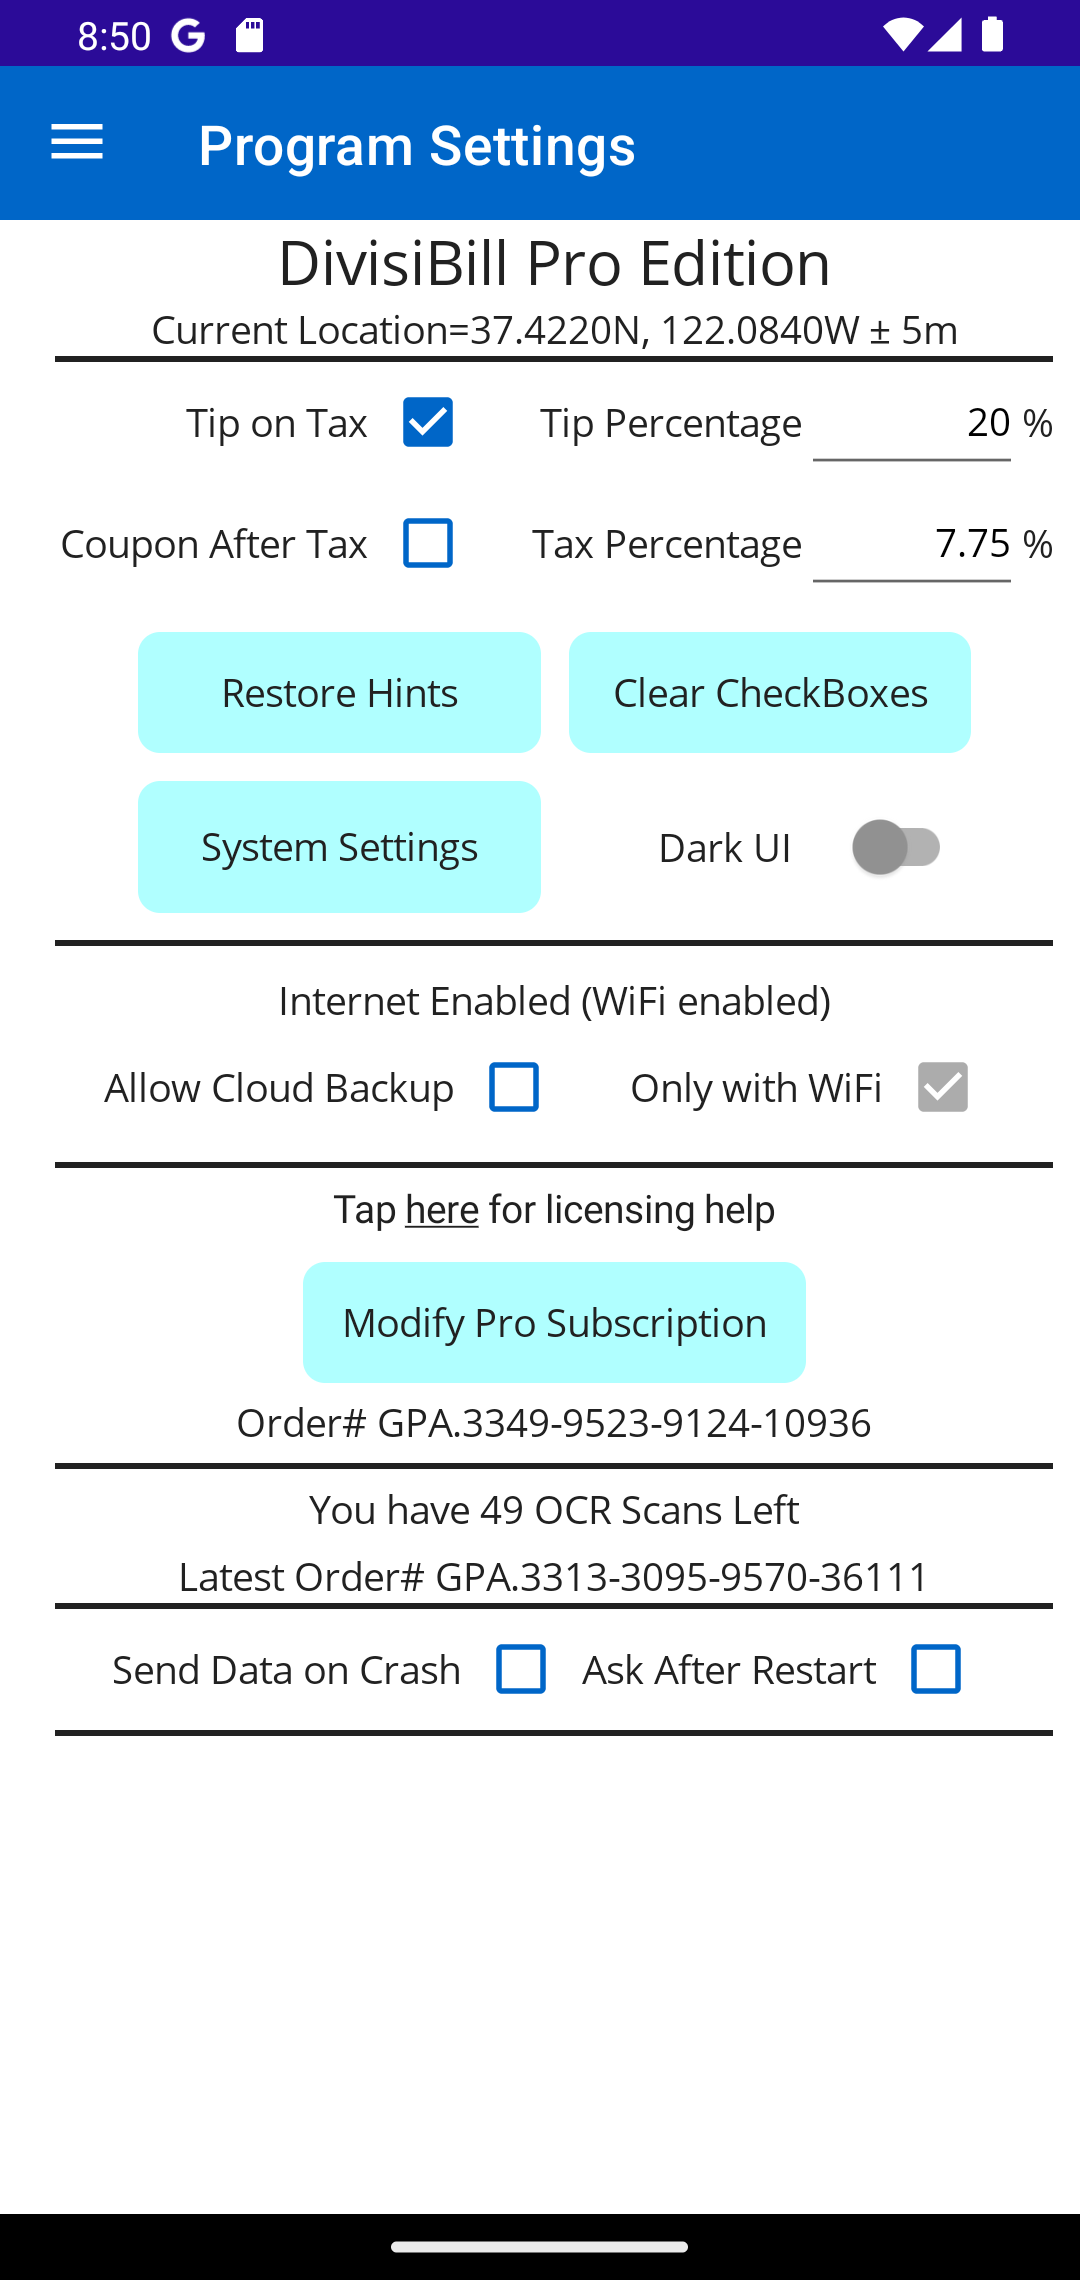
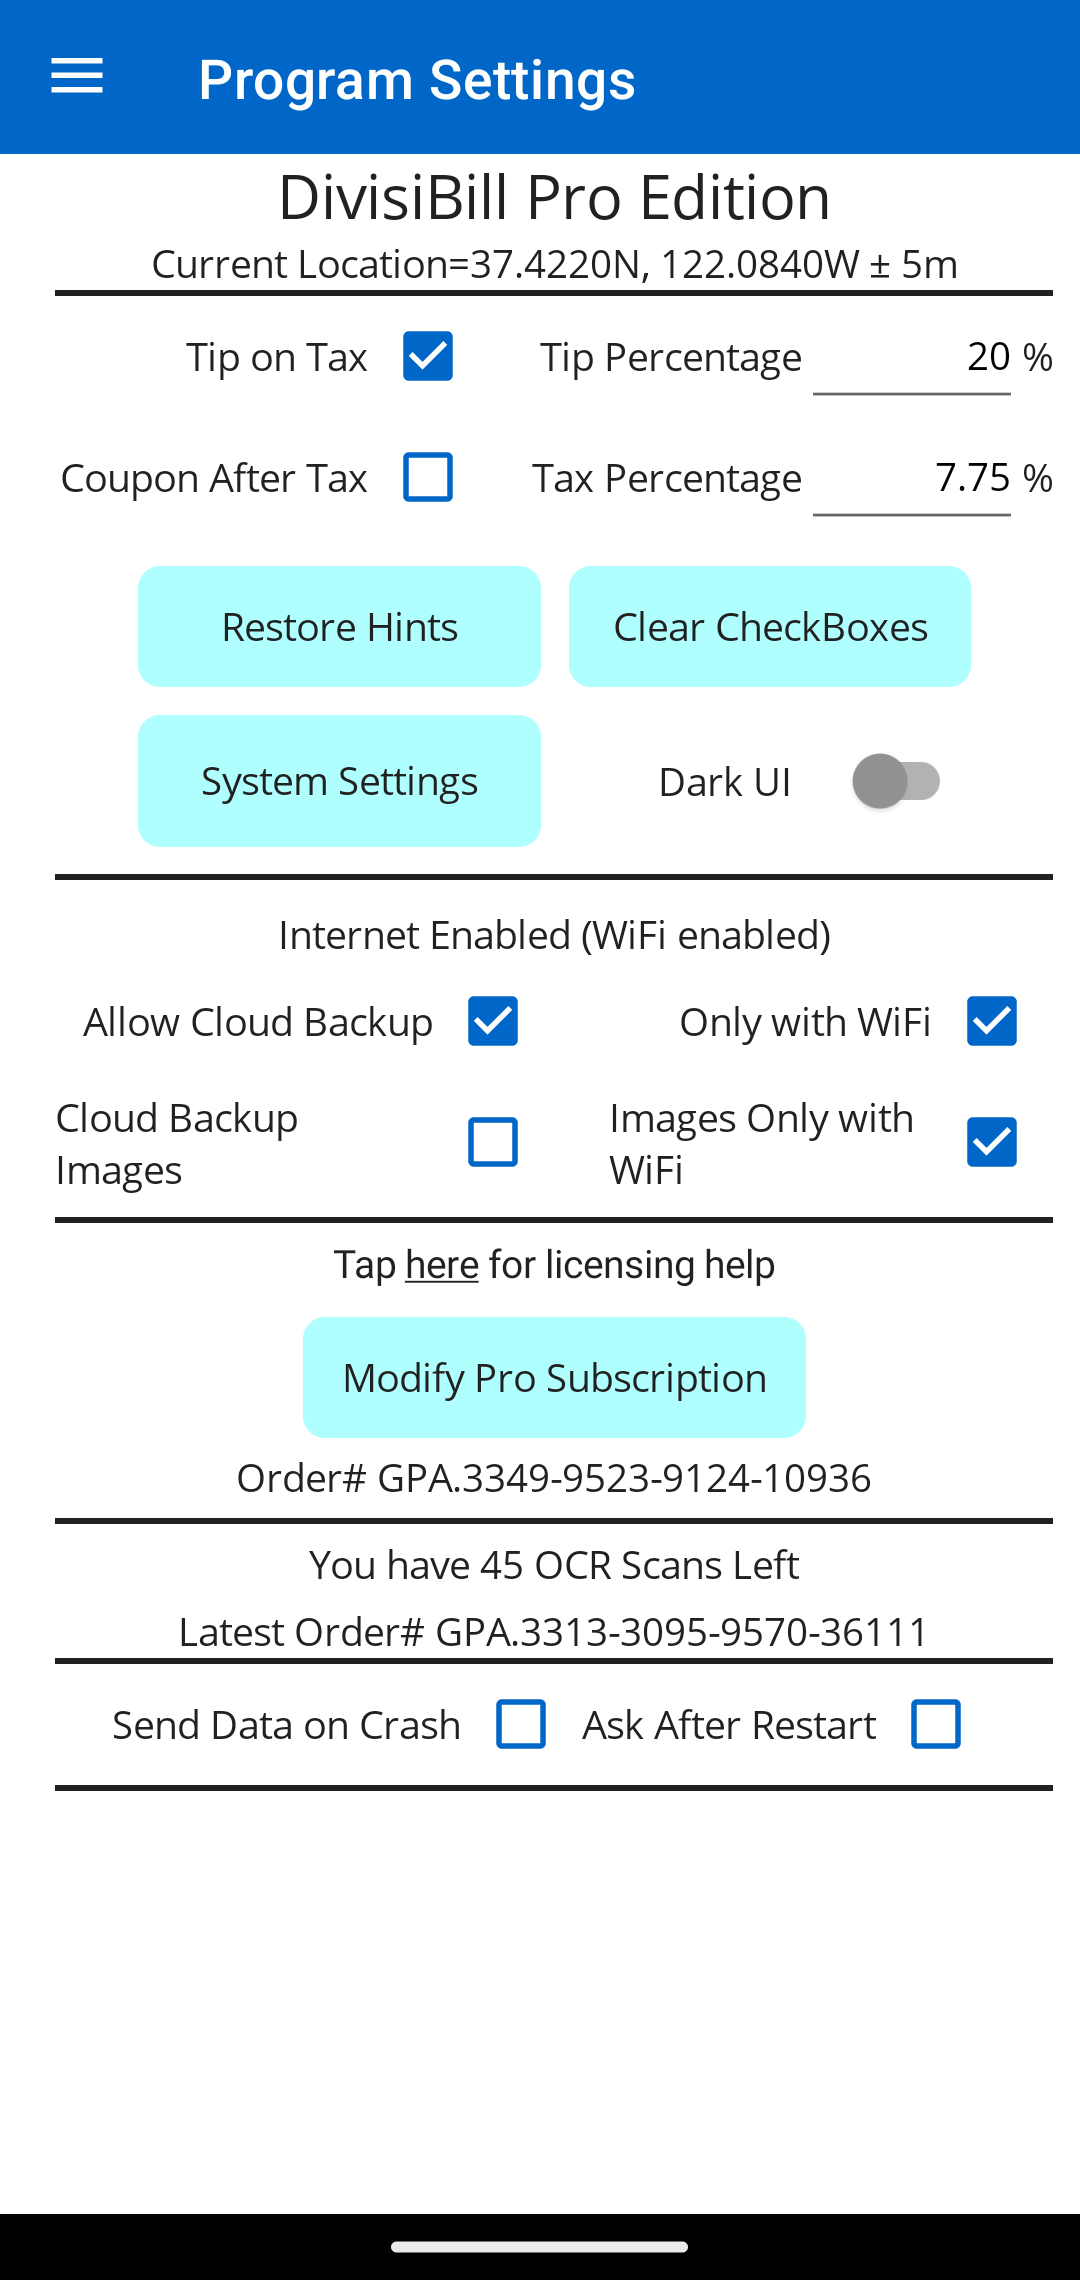
Update Help to 6.2.39

Changed region(s): [[0.0, 0.0, 1.0, 0.7785]]

diff --git a/web/divisibill/settingsglossary.html b/web/divisibill/settingsglossary.html
@@ -26,6 +26,10 @@
 <p>If you are running the Professional Edition, the &quot;Allow Cloud Backup&quot; switch allows you to specify whether or not to automatically back up changed items to the cloud. The Basic Edition of DivisiBill cannot use cloud backup but can use manual archiving instead. For more details, see <a href="licensing.html">this</a> page.</p>
 <h2 id="wifi-switch">WiFi Switch</h2>
 <p>This selection is available only in the Professional Edition and is usable only when &quot;Allow Cloud Backup&quot; is set. If you turn on this switch, DivisiBill will automatically back up changed items to the cloud only when a WiFi connection is available to minimize the use of mobile data. If this switch is not set and cloud access is enabled, backup operations will occur whenever Internet connectivity is available.</p>
+<h2 id="backup-images">Backup Images</h2>
+<p>With this switch set bill images will be backed up to the cloud along with the bill data. If this switch is not set, only the bill data will be backed up. Note that images are never backed up in the Basic Edition of DivisiBill.</p>
+<h2 id="images-wifi">Images WiFi</h2>
+<p>This switch is available only in the Professional Edition and is used only when &quot;Images Backup&quot; is set. If you turn on this switch, DivisiBill will automatically back up bill images to the cloud only when a WiFi connection is available to minimize the use of mobile data. If this switch is not set and image backup is enabled, image backup operations will occur whenever Internet connectivity is available.</p>
 <h2 id="licensing-help">Licensing Help</h2>
 <p>Tap here to open up the <a href="licensing.html">licensing help</a> and learn more about Pro and OCR licenses.</p>
 <h2 id="modify-button">Modify Button</h2>

diff --git a/web/divisibill/meallistglossary.html b/web/divisibill/meallistglossary.html
@@ -48,7 +48,7 @@ of bills to only those stored locally or remotely or both.</li>
 <h2 id="scroll-view-up">Scroll View Up (<u></u>)</h2>
 <p>This button allows you to scroll the view up to the top of the list of bills. It is only visible if there are bills not visible above the top of the page. Tap once to scroll the view up a page, long press to move to the beginning of the list.</p>
 <h2 id="image">Image (<u></u>)</h2>
-<p>This column has an image icon (<u></u>) in it if the bill has a stored image.</p>
+<p>This column has an image icon (<u></u>) in it corresponding to each location where the bill has a stored image. So an icon in the upper position means there is an image in the cloud, one in the lower position means there is a local image. No icon in a particular position means there is no image stored at the corresponding location. When you make a remote bill current it will be downloaded along with any required image.</p>
 <h2 id="location">Location</h2>
 <p>If cloud access is allowed (available and enabled) this column shows whether the bill is stored locally (<u></u>/<u></u>), in the cloud (<u></u>/<u></u>), or both. A filled icon means the item is stored there, an outline one means it is not.</p>
 <p>If cloud access is allowed but you are not currently showing remote (cloud resident) bills, local bills will still show the cloud icon to indicate whether or not they are also stored in the cloud.</p>

diff --git a/web/divisibill/index.html b/web/divisibill/index.html
@@ -48,7 +48,7 @@ page. The main pages are:</p>
 <p>Otherwise it connects only when you specifically request it to (for example, in order to back up and recover files or send mail). If a crash should occur, the next run of DivisiBill will ask you if you wish to report it. All these activities are anonymous, though lists of people and venue names could give away information about you.</p>
 <h2 id="data-deletion-policy">Data Deletion Policy</h2>
 <p>Professional Edition Subscribers may delete their cloud based data (bills and/or lists of people or venues) at any time through DivisiBill, by canceling their subscription, or by sending an email request to <a href="mailto:support@autopl.us">DivisiBill Support</a> along with their Professional Subscription order number (DivisiBill will add this to the mail automatically, just don't delete it). Once a Professional Subscription ends (either by being canceled or not being renewed) the corresponding cloud based data will be removed. The source of this data is anonymous though the data itself may give some clues, especially to the users location.</p>
-<p style="Text-align:center; font-size: 0.8em">Updated August 2025 for version 6.2.36</p>
+<p style="Text-align:center; font-size: 0.8em">Updated September 1, 2025 for version 6.2.39</p>
 
 <script src="script.js"></script>
 </body>

diff --git a/web/divisibill/settingsglossary.md b/web/divisibill/settingsglossary.md
@@ -37,6 +37,15 @@ If you are running the Professional Edition, the "Allow Cloud Backup" switch all
 ## WiFi Switch
 
 This selection is available only in the Professional Edition and is usable only when "Allow Cloud Backup" is set. If you turn on this switch, DivisiBill will automatically back up changed items to the cloud only when a WiFi connection is available to minimize the use of mobile data. If this switch is not set and cloud access is enabled, backup operations will occur whenever Internet connectivity is available. 
+
+## Backup Images
+
+With this switch set bill images will be backed up to the cloud along with the bill data. If this switch is not set, only the bill data will be backed up. Note that images are never backed up in the Basic Edition of DivisiBill.
+
+## Images WiFi
+
+This switch is available only in the Professional Edition and is used only when "Images Backup" is set. If you turn on this switch, DivisiBill will automatically back up bill images to the cloud only when a WiFi connection is available to minimize the use of mobile data. If this switch is not set and image backup is enabled, image backup operations will occur whenever Internet connectivity is available.
+
 ## Licensing Help
 
 Tap here to open up the [licensing help](licensing.html) and learn more about Pro and OCR licenses.

diff --git a/web/divisibill/index.md b/web/divisibill/index.md
@@ -57,4 +57,4 @@ Otherwise it connects only when you specifically request it to (for example, in 
 
 Professional Edition Subscribers may delete their cloud based data (bills and/or lists of people or venues) at any time through DivisiBill, by canceling their subscription, or by sending an email request to [DivisiBill Support](mailto:support@autopl.us) along with their Professional Subscription order number (DivisiBill will add this to the mail automatically, just don't delete it). Once a Professional Subscription ends (either by being canceled or not being renewed) the corresponding cloud based data will be removed. The source of this data is anonymous though the data itself may give some clues, especially to the users location.
 
-<p style="Text-align:center; font-size: 0.8em">Updated August 2025 for version 6.2.36</p>
+<p style="Text-align:center; font-size: 0.8em">Updated September 1, 2025 for version 6.2.39</p>

diff --git a/web/divisibill/meallistglossary.md b/web/divisibill/meallistglossary.md
@@ -64,7 +64,7 @@ This button allows you to scroll the view up to the top of the list of bills. It
 
 ## Image (<u>&#xF0976;</u>)
 
-This column has an image icon (<u>&#xF0976;</u>) in it if the bill has a stored image.
+This column has an image icon (<u>&#xF0976;</u>) in it corresponding to each location where the bill has a stored image. So an icon in the upper position means there is an image in the cloud, one in the lower position means there is a local image. No icon in a particular position means there is no image stored at the corresponding location. When you make a remote bill current it will be downloaded along with any required image.
 
 ## Location
 
